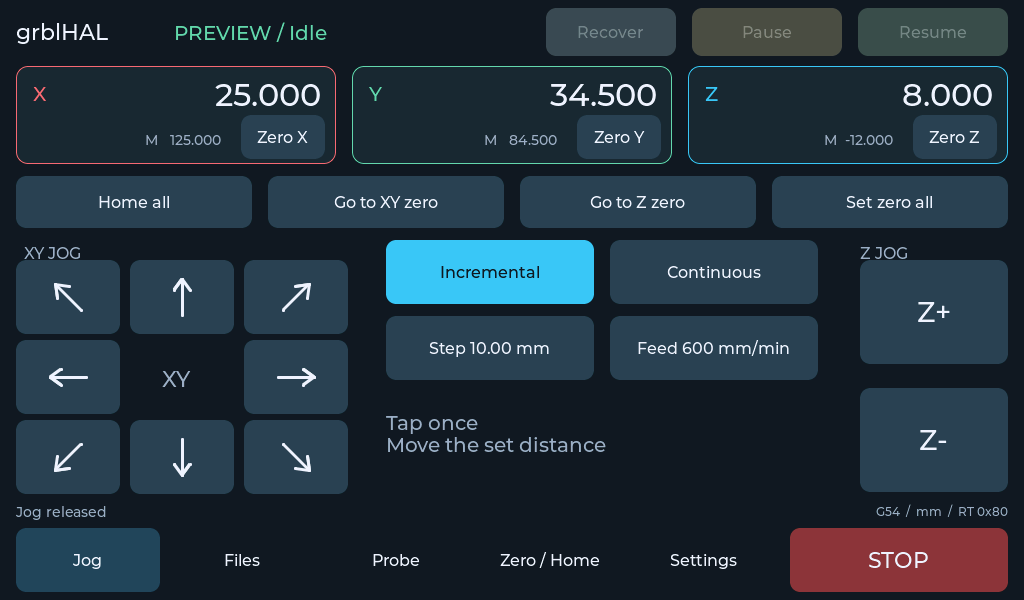
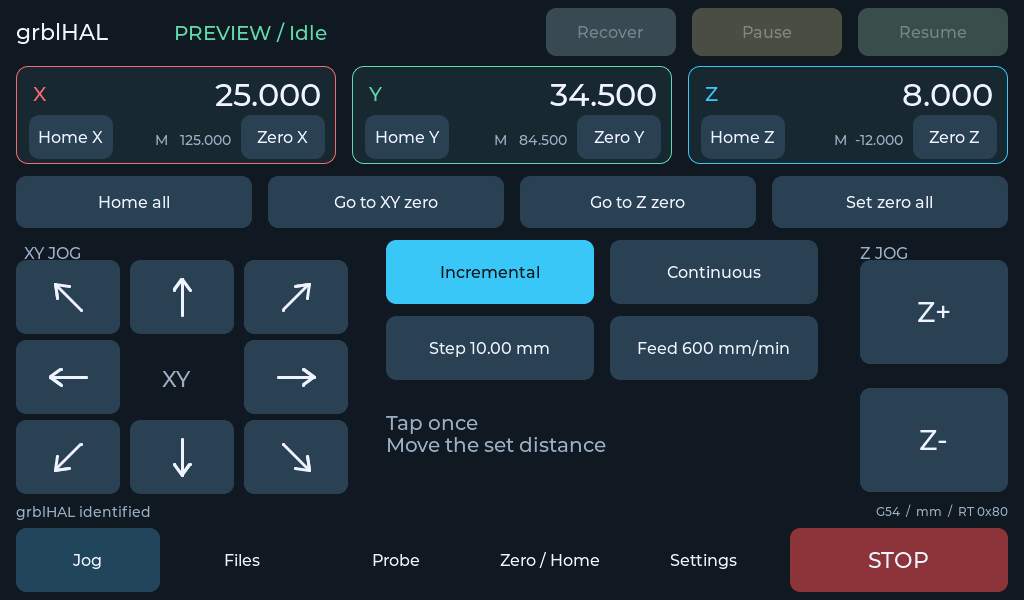
Place per-axis homing beside DRO zero controls

diff --git a/firmware/viewesmart-p4/main/panel_ui.cpp b/firmware/viewesmart-p4/main/panel_ui.cpp
@@ -27,7 +27,7 @@ static int page = 0;
 static lv_obj_t *root, *body, *status_text, *state_label, *protocol_label, *axis_work[3], *axis_machine[3],
     *axis_card[3], *nav[5];
 static lv_obj_t *pause_btn, *resume_btn, *home_btn, *stop_btn, *recover_btn;
-static lv_obj_t *axis_zero[3];
+static lv_obj_t *axis_zero[3], *axis_home[3];
 static lv_obj_t *dro_actions, *goto_buttons[2], *zero_all_btn;
 static lv_obj_t *preview_btn;
 static bool preview_pending = false, preview_show = false;
@@ -718,8 +718,10 @@ static void refresh(lv_timer_t *) {
         enable(goto_buttons[i], on && state.coordinates && state.wco_known && state.modal_known);
     for (int i = 0; i < jog_count; i++)
         enable(jog_buttons[i], on || jog_held);
-    enable(home_btn, on || (state.online && state.identified && state.status && !state.busy &&
-                            !strncmp(state.mode, "Alarm", 5)));
+    bool can_home = on || (state.online && state.identified && state.status && !state.busy &&
+                           !state.sd_active && !strncmp(state.mode, "Alarm", 5));
+    enable(home_btn, can_home);
+    for (int i = 0; i < 3; i++) enable(axis_home[i], can_home);
     enable(pause_btn, state.online && state.status && !strncmp(state.mode, "Run", 3));
     enable(resume_btn, state.online && state.status && !strcmp(state.mode, "Hold:0"));
     enable(stop_btn, state.online || state.identified);
@@ -792,9 +794,11 @@ extern "C" void panel_ui_create() {
         label(c, axes[i], 16, 16, 30, 20, colors[i]);
         axis_work[i] = label(c, "--.---", 66, 10, 238, 32);
         lv_obj_set_style_text_align(axis_work[i], LV_TEXT_ALIGN_RIGHT, 0);
-        axis_machine[i] = label(c, "M  --.---", 16, 65, 188, 14, MUTED);
+        axis_machine[i] = label(c, "M  --.---", 104, 65, 110, 14, MUTED);
         lv_obj_set_style_text_align(axis_machine[i], LV_TEXT_ALIGN_RIGHT, 0);
         char s[16];
+        snprintf(s, sizeof s, "Home %c", "XYZ"[i]);
+        axis_home[i] = button(c, s, 12, 48, 84, 44, home_click, "XYZ"[i]);
         snprintf(s, sizeof s, "Zero %c", "XYZ"[i]);
         axis_zero[i] = button(c, s, 224, 48, 84, 44, zero_click, 1 << i);
     }

diff --git a/tools/check-jog.py b/tools/check-jog.py
@@ -56,8 +56,7 @@ with serial.Serial(port=None, baudrate=115200, timeout=1, write_timeout=5) as po
         shot("jog-continuous.png")
         tap(490, 272)
         shot("jog-incremental.png")
-        tap(550, 560)  # Zero / Home
-        tap(189, 456)  # Home X
+        tap(70, 136)  # Home X beside the DRO
         shot("home-x-confirm.png")
         tap(630, 409)
         assert "$HX" in command("LAST")

diff --git a/AGENTS.md b/AGENTS.md
@@ -126,8 +126,8 @@ codes rather than displaying truncated geometry. Preserve responsive Stop during
 Design for landscape, two-handed pendant use. Keep large XY targets at the left,
 Z at the right, DROs above the hands, and bottom navigation. STOP must stay visible
 on all pages and above dialogs, and send Ctrl-X on touch-down without confirmation. Keep confirmations
-for homing, zeroing, probing and starting jobs. Per-axis zero is on each DRO;
-individual homing is on Zero / Home. Update injected-touch coordinates when moving controls.
+for homing, zeroing, probing and starting jobs. Per-axis Home and Zero are on each DRO;
+individual homing is also on Zero / Home. Update injected-touch coordinates when moving controls.
 Keep Home all, Go to XY zero, Go to Z zero and Set zero all directly beneath the
 DRO on Jog. Set zero changes offsets; Go to zero moves and must be confirmed.
 Go XY follows `DROHandler.goXY0()`: machine Z−5 mm, X0, Y0, restore machine Z.

diff --git a/README.md b/README.md
@@ -10,7 +10,7 @@ Jog has an eight-direction XY pad, separate Z controls, Incremental/Continuous
 modes, Home All and individual axis homing, and XYZ/per-axis work zeroing.
 The landscape layout is intended for two-handed use: XY by the left thumb,
 large Z controls by the right, full-width DROs above, and bottom navigation.
-Each DRO has an axis-zero button. Individual homing is on Zero / Home.
+Each DRO has Home and Zero buttons for that axis. Individual homing is also on Zero / Home.
 On Jog, Home all, Go to XY zero, Go to Z zero and Set zero all sit directly below
 the DRO. Go to zero moves the machine; Set zero changes the active work offset.
 Both require confirmation. Go to XY zero follows Ooznest Control: rapid via machine
